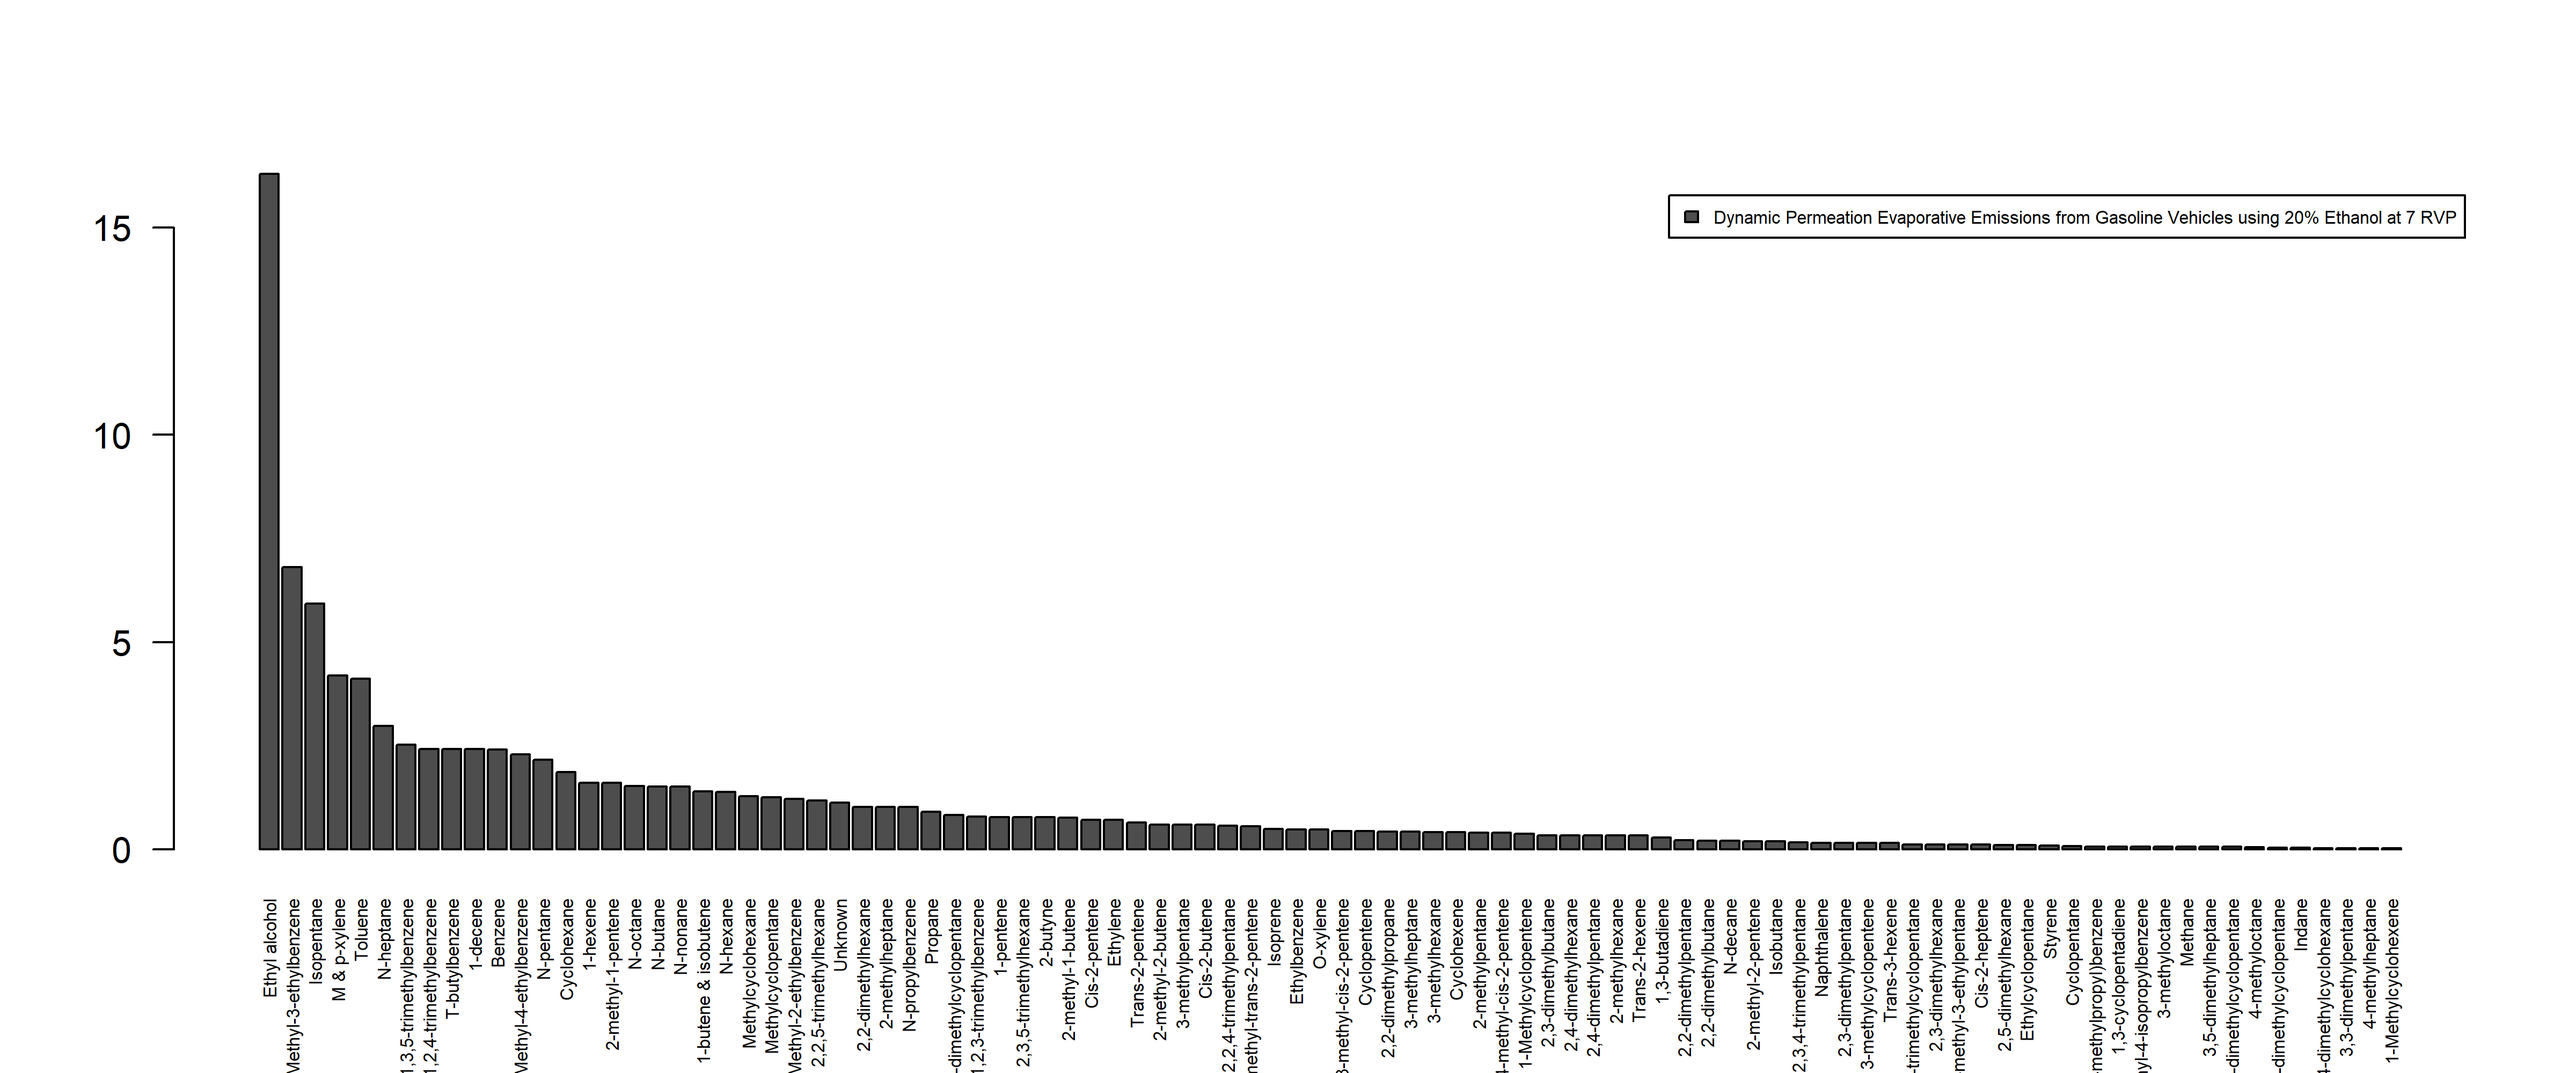
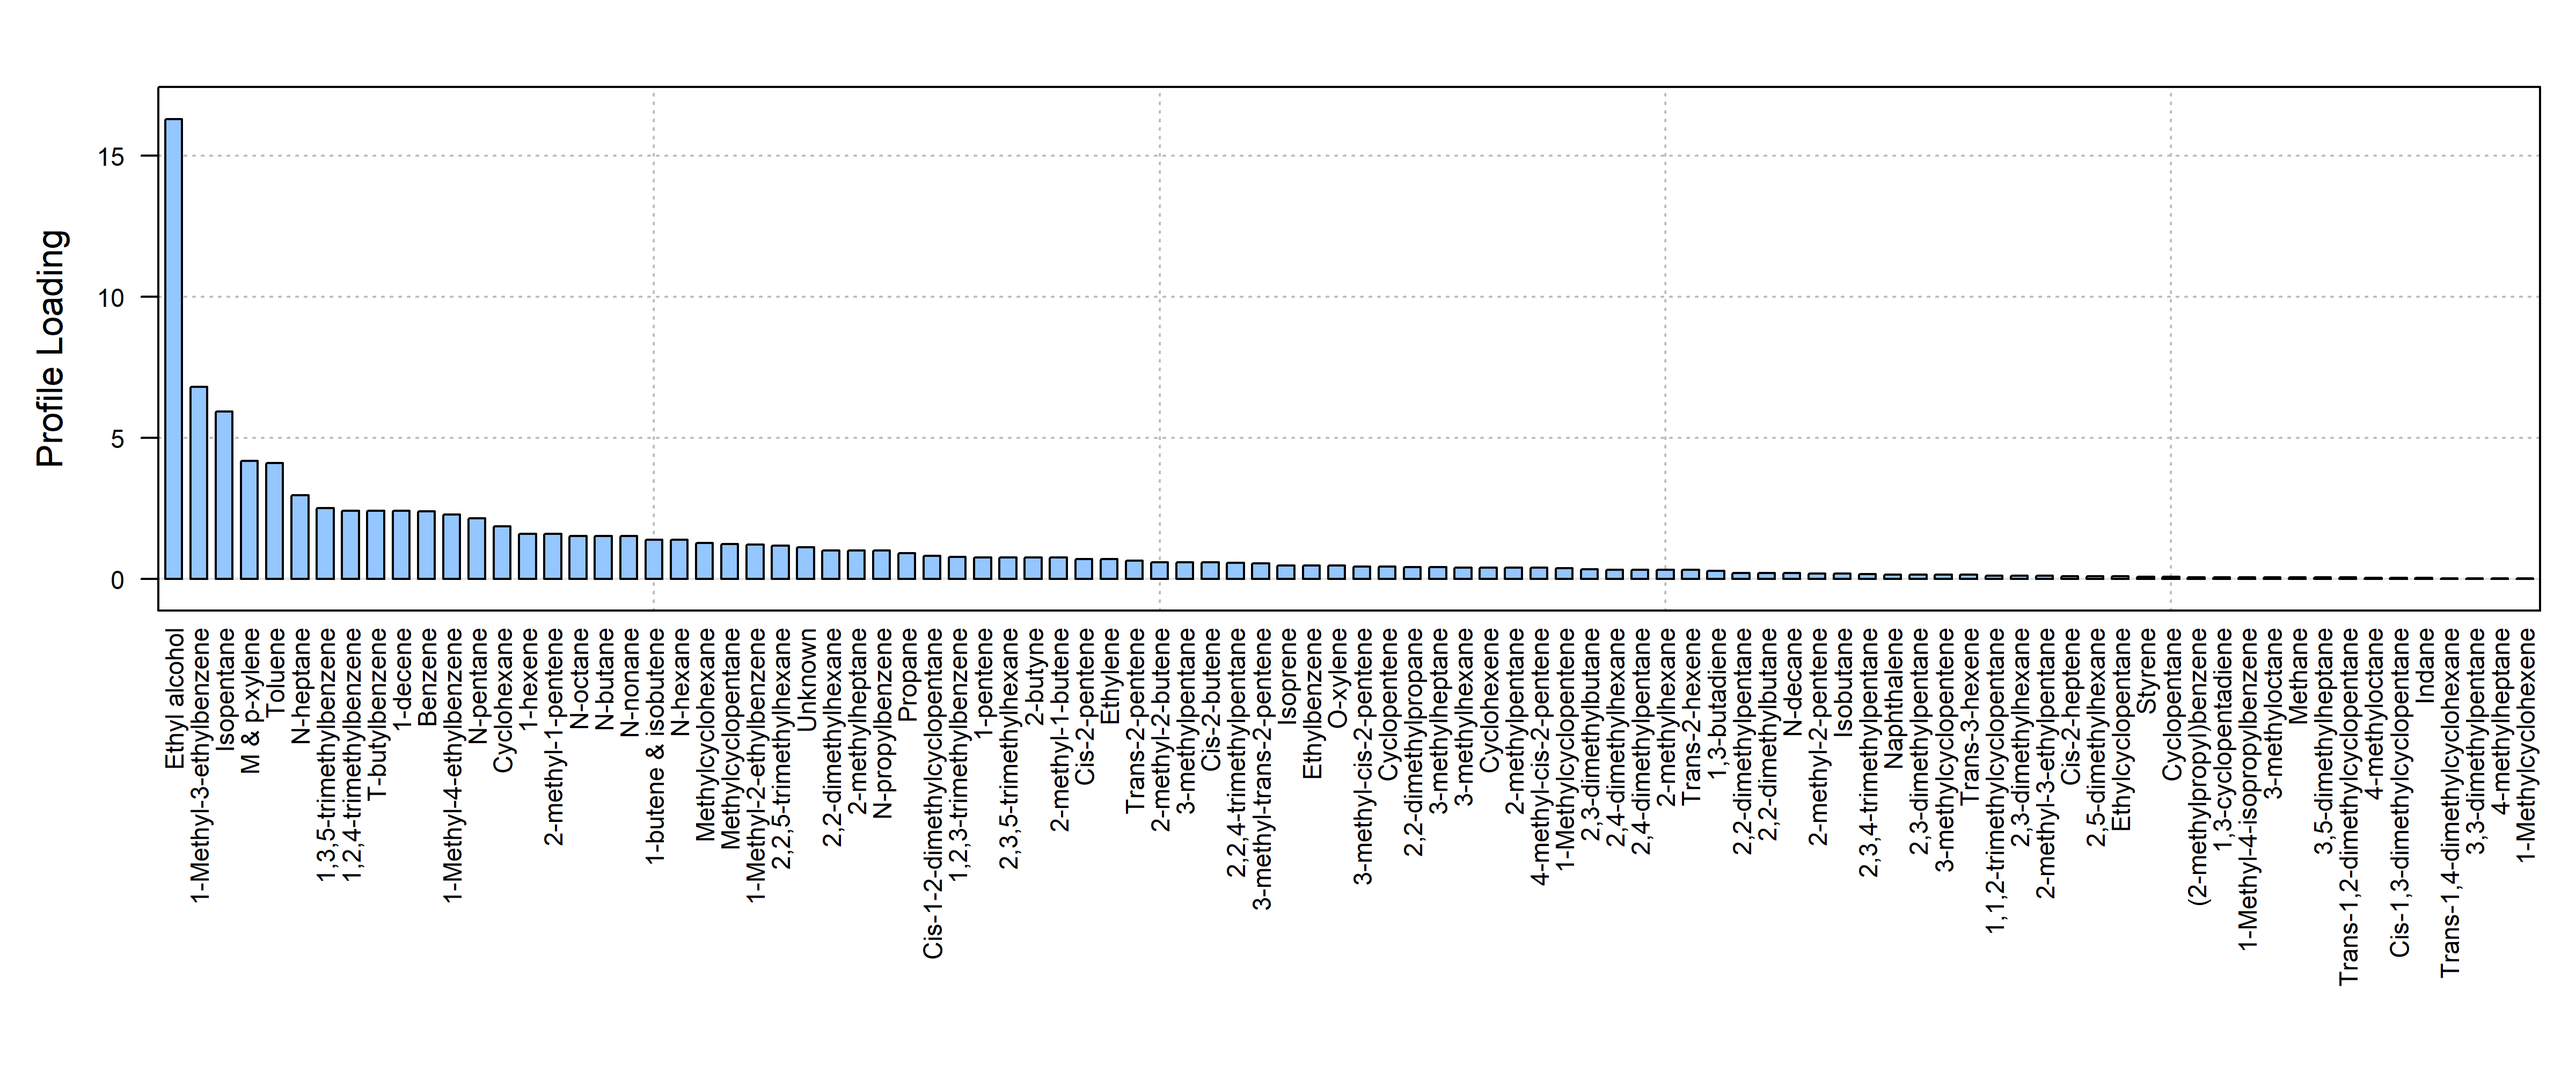
readme update

Changed region(s): [[0.0, 0.093, 1.0, 1.0], [0.6562, 0.186, 0.9688, 0.217], [0.0, 0.217, 0.0312, 0.31]]

diff --git a/README.md b/README.md
@@ -22,8 +22,14 @@ library(respeciate)
 x <- sp_find_profile("Ethanol")
 x
 #> respeciate profile reference
-#> 0291 1070 1071 1132 1149 1301 1302 1303 1304 1314 ...
-#>    > 160 profiles [showing first 10]
+#> 0291 1070 1071 1132 1149 1301 1302 1303 1304 1314 5473 5474 5475 5477 5478 5479 
+#> 5481 5482 5483 5485 5486 5487 5489 5490 5491 5493 5494 5495 5496 5497 5498 5499 
+#> 5500 5501 5502 5503 5504 5505 5506 5507 5508 5509 5510 5511 5512 5513 5514 5515 
+#> 5516 5517 5518 5519 5520 5521 5522 5523 5524 5525 5526 5527 5528 5529 5530 5531 
+#> 5532 5533 5534 5535 5536 5537 5538 5539 5540 5541 5542 5543 5544 5545 5546 5547 
+#> 8200 8210 8215 8733 8736 8751 8751a 8752 8754 8755 8757 8758 8760 8761 8763 
+#> 8764 8765 8766 8767 8768 ...
+#>    > 160 profiles [showing first 100]
 ```
 
 ## speciate
@@ -43,12 +49,11 @@ plot(p)
 
 <img src="man/figures/unnamed-chunk-5-1.png" style="display: block; margin: auto;" />
 
-… using barplot syntax
+… using lattice barchart syntax
 
 ``` r
-#using base barplot 
 p2 <- sp_profile(c(8833, 8850))
-plot(p2, beside=TRUE)
+plot(p2, key=list(space="top"))
 ```
 
 <img src="man/figures/unnamed-chunk-6-1.png" style="display: block; margin: auto;" />
